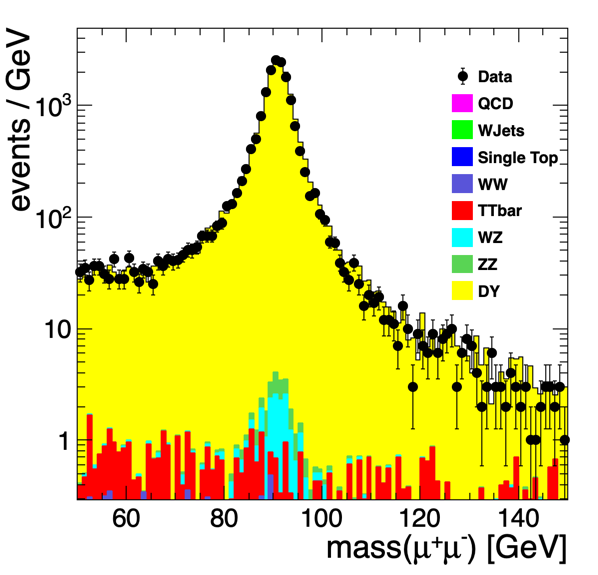
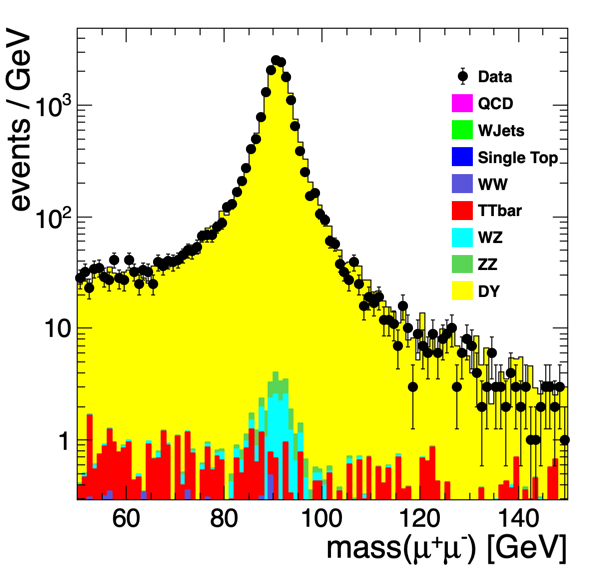
adding muon pt cut

diff --git a/code/C/os_dimuons/makePlot.C b/code/C/os_dimuons/makePlot.C
@@ -183,8 +183,9 @@ void makePlot()
             bool selection = false;
             float var = 0;
 
-            // select events with 2 muons having opposite sign
+            // select events with 2 muons having opposite sign, require leading muon to have pt>25 GeV
             if(triggerIsoMu24 && NMuon>=2 && Muon_Charge[0]*Muon_Charge[1]<0 ) 
+            if(pow(Muon_Px[0]*Muon_Px[0] + Muon_Py[0]*Muon_Py[0], 0.5)>25) 
             {
                 selection = true; 
                 var       = NMuon;

diff --git a/code/C/os_dimuons/os_dimuons_mass/makePlot.C b/code/C/os_dimuons/os_dimuons_mass/makePlot.C
@@ -183,8 +183,9 @@ void makePlot()
             bool selection = false;
             float var = 0;
 
-            // select events with 2 muons having opposite sign
+            // select events with 2 muons having opposite sign, require leading muon to have pt > 25 GeV
             if(triggerIsoMu24 && NMuon>=2 && Muon_Charge[0]*Muon_Charge[1]<0 ) 
+            if(pow(Muon_Px[0]*Muon_Px[0] + Muon_Py[0]*Muon_Py[0], 0.5)>25) 
             {
                 selection = true; 
 
